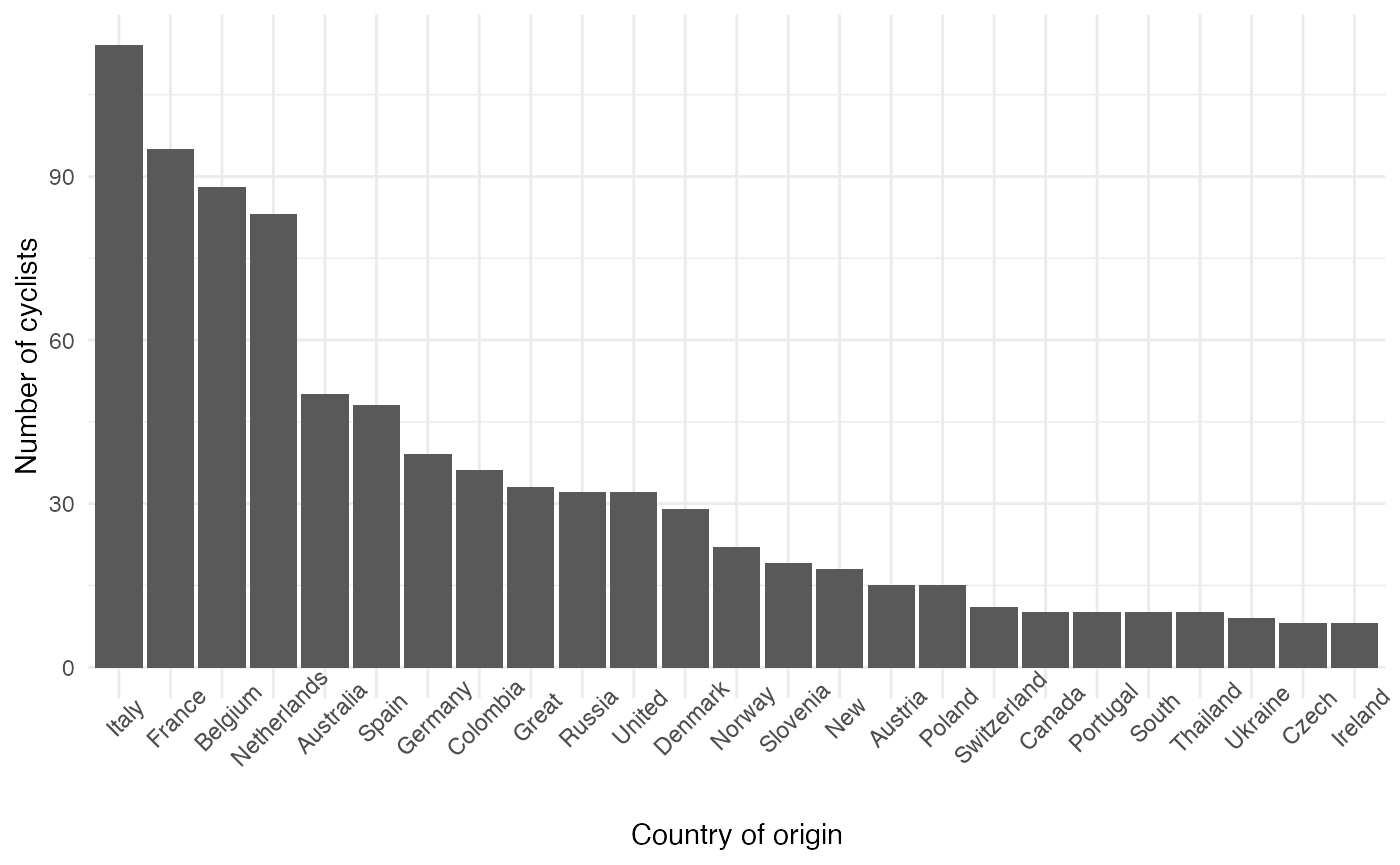
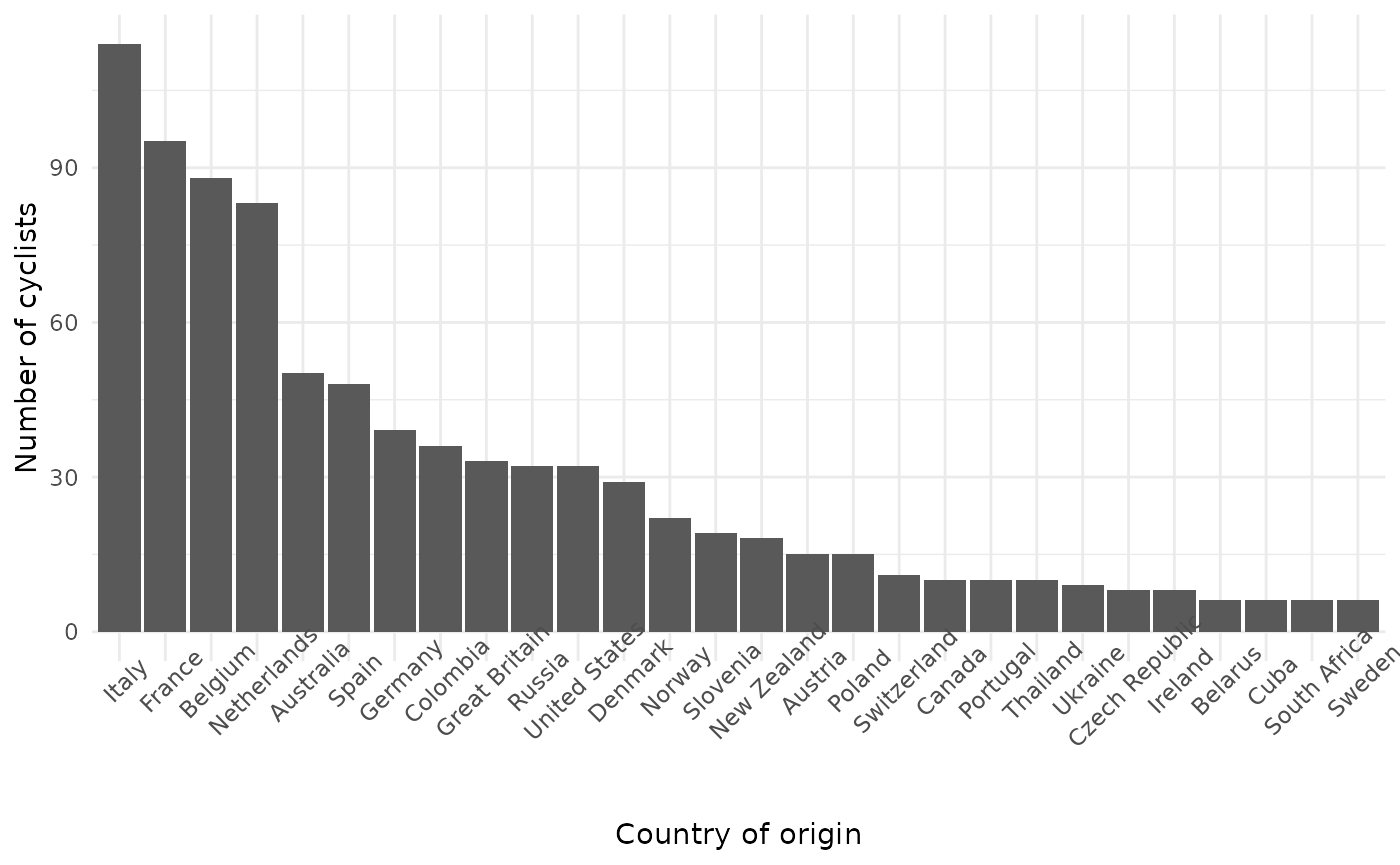
Follow-up on #23 (nationality labels)

diff --git a/docs/articles/pcs-usage.html b/docs/articles/pcs-usage.html
@@ -75,7 +75,7 @@
       <h1 data-toc-skip>PCS Usage</h1>
                         <h4 class="author">Sean Hardison</h4>
             
-            <h4 class="date">Latest version: 2020-10-20</h4>
+            <h4 class="date">Latest version: 2020-10-22</h4>
       
       
       <div class="hidden name"><code>pcs-usage.Rmd</code></div>
@@ -96,72 +96,70 @@
 <h3 class="hasAnchor">
 <a href="#what-countries-are-well-represented-in-the-peloton" class="anchor"></a>What countries are well represented in the peloton?</h3>
 <div class="sourceCode" id="cb1"><pre class="downlit">
-<span class="fu"><a href="https://rdrr.io/r/base/library.html">library</a></span>(<span class="kw">pcs</span>)
-<span class="fu"><a href="https://rdrr.io/r/base/library.html">library</a></span>(<span class="kw"><a href="http://ggplot2.tidyverse.org">ggplot2</a></span>)
-<span class="fu"><a href="https://rdrr.io/r/base/library.html">library</a></span>(<span class="kw"><a href="https://dplyr.tidyverse.org">dplyr</a></span>)
+<span class="kw"><a href="https://rdrr.io/r/base/library.html">library</a></span><span class="op">(</span><span class="va">pcs</span><span class="op">)</span>
+<span class="kw"><a href="https://rdrr.io/r/base/library.html">library</a></span><span class="op">(</span><span class="va"><a href="http://ggplot2.tidyverse.org">ggplot2</a></span><span class="op">)</span>
+<span class="kw"><a href="https://rdrr.io/r/base/library.html">library</a></span><span class="op">(</span><span class="va"><a href="https://dplyr.tidyverse.org">dplyr</a></span><span class="op">)</span>
 
 <span class="co"># Combine men and women rider profile data and count the number of riders</span>
 <span class="co"># by country</span>
-<span class="kw">all_riders</span> <span class="op">&lt;-</span> <span class="kw">rider_profiles_men</span> <span class="op">%&gt;%</span> 
-  <span class="fu"><a href="https://dplyr.tidyverse.org/reference/bind.html">bind_rows</a></span>(<span class="kw">.</span>, <span class="kw">rider_profiles_women</span>) <span class="op">%&gt;%</span> 
-  <span class="fu"><a href="https://dplyr.tidyverse.org/reference/group_by.html">group_by</a></span>(<span class="kw">nationality</span>) <span class="op">%&gt;%</span> 
-  <span class="kw">dplyr</span>::<span class="fu"><a href="https://dplyr.tidyverse.org/reference/summarise.html">summarise</a></span>(n_riders = <span class="fu"><a href="https://dplyr.tidyverse.org/reference/context.html">n</a></span>()) <span class="op">%&gt;%</span> 
-  <span class="fu"><a href="https://dplyr.tidyverse.org/reference/top_n.html">top_n</a></span>(<span class="kw">n_riders</span>, n= <span class="fl">25</span>)
+<span class="va">all_riders</span> <span class="op">&lt;-</span> <span class="va">rider_profiles_men</span> <span class="op">%&gt;%</span> 
+  <span class="fu"><a href="https://dplyr.tidyverse.org/reference/bind.html">bind_rows</a></span><span class="op">(</span><span class="va">.</span>, <span class="va">rider_profiles_women</span><span class="op">)</span> <span class="op">%&gt;%</span> 
+  <span class="fu"><a href="https://dplyr.tidyverse.org/reference/group_by.html">group_by</a></span><span class="op">(</span><span class="va">nationality</span><span class="op">)</span> <span class="op">%&gt;%</span> 
+  <span class="fu">dplyr</span><span class="fu">::</span><span class="fu"><a href="https://dplyr.tidyverse.org/reference/summarise.html">summarise</a></span><span class="op">(</span>n_riders <span class="op">=</span> <span class="fu"><a href="https://dplyr.tidyverse.org/reference/context.html">n</a></span><span class="op">(</span><span class="op">)</span><span class="op">)</span> <span class="op">%&gt;%</span> 
+  <span class="fu"><a href="https://dplyr.tidyverse.org/reference/top_n.html">top_n</a></span><span class="op">(</span><span class="va">n_riders</span>, n<span class="op">=</span> <span class="fl">25</span><span class="op">)</span>
 
 <span class="co"># Visualize</span>
-<span class="kw">all_riders</span> <span class="op">%&gt;%</span> 
-  <span class="fu"><a href="https://dplyr.tidyverse.org/reference/arrange.html">arrange</a></span>(<span class="fu"><a href="https://dplyr.tidyverse.org/reference/desc.html">desc</a></span>(<span class="kw">n_riders</span>)) <span class="op">%&gt;%</span> 
-<span class="fu"><a href="https://ggplot2.tidyverse.org/reference/ggplot.html">ggplot</a></span>() <span class="op">+</span>
-  <span class="fu"><a href="https://ggplot2.tidyverse.org/reference/geom_bar.html">geom_bar</a></span>(<span class="fu"><a href="https://ggplot2.tidyverse.org/reference/aes.html">aes</a></span>(x = <span class="fu"><a href="https://rdrr.io/r/stats/reorder.factor.html">reorder</a></span>(<span class="kw">nationality</span>, <span class="op">-</span><span class="kw">n_riders</span>, <span class="kw">sum</span>),
-               y = <span class="kw">n_riders</span>), stat = <span class="st">"identity"</span>) <span class="op">+</span>
-  <span class="fu"><a href="https://ggplot2.tidyverse.org/reference/ggtheme.html">theme_minimal</a></span>() <span class="op">+</span>
-  <span class="fu"><a href="https://ggplot2.tidyverse.org/reference/theme.html">theme</a></span>(axis.text.x = <span class="fu"><a href="https://ggplot2.tidyverse.org/reference/element.html">element_text</a></span>(angle = <span class="fl">45</span>)) <span class="op">+</span>
-  <span class="fu"><a href="https://ggplot2.tidyverse.org/reference/labs.html">labs</a></span>(y = <span class="st">"Number of cyclists"</span>,
-       x = <span class="st">"Country of origin"</span>) 
-</pre></div>
+<span class="va">all_riders</span> <span class="op">%&gt;%</span> 
+  <span class="fu"><a href="https://dplyr.tidyverse.org/reference/arrange.html">arrange</a></span><span class="op">(</span><span class="fu"><a href="https://dplyr.tidyverse.org/reference/desc.html">desc</a></span><span class="op">(</span><span class="va">n_riders</span><span class="op">)</span><span class="op">)</span> <span class="op">%&gt;%</span> 
+<span class="fu"><a href="https://ggplot2.tidyverse.org/reference/ggplot.html">ggplot</a></span><span class="op">(</span><span class="op">)</span> <span class="op">+</span>
+  <span class="fu"><a href="https://ggplot2.tidyverse.org/reference/geom_bar.html">geom_bar</a></span><span class="op">(</span><span class="fu"><a href="https://ggplot2.tidyverse.org/reference/aes.html">aes</a></span><span class="op">(</span>x <span class="op">=</span> <span class="fu"><a href="https://rdrr.io/r/stats/reorder.factor.html">reorder</a></span><span class="op">(</span><span class="va">nationality</span>, <span class="op">-</span><span class="va">n_riders</span>, <span class="va">sum</span><span class="op">)</span>,
+               y <span class="op">=</span> <span class="va">n_riders</span><span class="op">)</span>, stat <span class="op">=</span> <span class="st">"identity"</span><span class="op">)</span> <span class="op">+</span>
+  <span class="fu"><a href="https://ggplot2.tidyverse.org/reference/ggtheme.html">theme_minimal</a></span><span class="op">(</span><span class="op">)</span> <span class="op">+</span>
+  <span class="fu"><a href="https://ggplot2.tidyverse.org/reference/theme.html">theme</a></span><span class="op">(</span>axis.text.x <span class="op">=</span> <span class="fu"><a href="https://ggplot2.tidyverse.org/reference/element.html">element_text</a></span><span class="op">(</span>angle <span class="op">=</span> <span class="fl">45</span><span class="op">)</span><span class="op">)</span> <span class="op">+</span>
+  <span class="fu"><a href="https://ggplot2.tidyverse.org/reference/labs.html">labs</a></span><span class="op">(</span>y <span class="op">=</span> <span class="st">"Number of cyclists"</span>,
+       x <span class="op">=</span> <span class="st">"Country of origin"</span><span class="op">)</span> </pre></div>
 <p><img src="pcs-usage_files/figure-html/unnamed-chunk-1-1.png" width="700"></p>
 </div>
 <div id="which-countries-produce-the-most-successful-climbing-specialists" class="section level3">
 <h3 class="hasAnchor">
 <a href="#which-countries-produce-the-most-successful-climbing-specialists" class="anchor"></a>Which countries produce the most successful climbing specialists?</h3>
 <div class="sourceCode" id="cb2"><pre class="downlit">
-<span class="kw">climbers</span> <span class="op">&lt;-</span> 
-  <span class="kw">rider_profiles_men</span> <span class="op">%&gt;%</span> 
-  <span class="fu"><a href="https://dplyr.tidyverse.org/reference/mutate.html">mutate</a></span>(sex = <span class="st">"men"</span>) <span class="op">%&gt;%</span> 
-  <span class="fu"><a href="https://dplyr.tidyverse.org/reference/bind.html">bind_rows</a></span>(<span class="kw">.</span>, <span class="kw">rider_profiles_women</span> <span class="op">%&gt;%</span> 
-              <span class="fu"><a href="https://dplyr.tidyverse.org/reference/mutate.html">mutate</a></span>(sex = <span class="st">"women"</span>))
+<span class="va">climbers</span> <span class="op">&lt;-</span> 
+  <span class="va">rider_profiles_men</span> <span class="op">%&gt;%</span> 
+  <span class="fu"><a href="https://dplyr.tidyverse.org/reference/mutate.html">mutate</a></span><span class="op">(</span>sex <span class="op">=</span> <span class="st">"men"</span><span class="op">)</span> <span class="op">%&gt;%</span> 
+  <span class="fu"><a href="https://dplyr.tidyverse.org/reference/bind.html">bind_rows</a></span><span class="op">(</span><span class="va">.</span>, <span class="va">rider_profiles_women</span> <span class="op">%&gt;%</span> 
+              <span class="fu"><a href="https://dplyr.tidyverse.org/reference/mutate.html">mutate</a></span><span class="op">(</span>sex <span class="op">=</span> <span class="st">"women"</span><span class="op">)</span><span class="op">)</span>
 
 <span class="co"># Extract tenth percentile of climber points by sex</span>
-<span class="kw">top_points_perc</span> <span class="op">&lt;-</span> 
-  <span class="kw">climbers</span> <span class="op">%&gt;%</span> 
-  <span class="fu"><a href="https://dplyr.tidyverse.org/reference/group_by.html">group_by</a></span>(<span class="kw">sex</span>) <span class="op">%&gt;%</span> 
-  <span class="fu"><a href="https://dplyr.tidyverse.org/reference/summarise.html">summarise</a></span>(q = <span class="fu"><a href="https://rdrr.io/r/stats/quantile.html">quantile</a></span>(<span class="kw">climber</span>, 
-                         probs = <span class="fu"><a href="https://rdrr.io/r/base/seq.html">seq</a></span>(<span class="fl">0</span>,<span class="fl">1</span>,<span class="fl">0.1</span>)),
-            prob = <span class="fu"><a href="https://rdrr.io/r/base/names.html">names</a></span>(<span class="fu"><a href="https://rdrr.io/r/stats/quantile.html">quantile</a></span>(<span class="kw">climber</span>, 
-                                  probs = <span class="fu"><a href="https://rdrr.io/r/base/seq.html">seq</a></span>(<span class="fl">0</span>,<span class="fl">1</span>,<span class="fl">0.1</span>)))) <span class="op">%&gt;%</span> 
-  <span class="fu"><a href="https://dplyr.tidyverse.org/reference/filter.html">filter</a></span>(<span class="kw">prob</span> <span class="op">==</span> <span class="st">"90%"</span>) 
+<span class="va">top_points_perc</span> <span class="op">&lt;-</span> 
+  <span class="va">climbers</span> <span class="op">%&gt;%</span> 
+  <span class="fu"><a href="https://dplyr.tidyverse.org/reference/group_by.html">group_by</a></span><span class="op">(</span><span class="va">sex</span><span class="op">)</span> <span class="op">%&gt;%</span> 
+  <span class="fu"><a href="https://dplyr.tidyverse.org/reference/summarise.html">summarise</a></span><span class="op">(</span>q <span class="op">=</span> <span class="fu"><a href="https://rdrr.io/r/stats/quantile.html">quantile</a></span><span class="op">(</span><span class="va">climber</span>, 
+                         probs <span class="op">=</span> <span class="fu"><a href="https://rdrr.io/r/base/seq.html">seq</a></span><span class="op">(</span><span class="fl">0</span>,<span class="fl">1</span>,<span class="fl">0.1</span><span class="op">)</span><span class="op">)</span>,
+            prob <span class="op">=</span> <span class="fu"><a href="https://rdrr.io/r/base/names.html">names</a></span><span class="op">(</span><span class="fu"><a href="https://rdrr.io/r/stats/quantile.html">quantile</a></span><span class="op">(</span><span class="va">climber</span>, 
+                                  probs <span class="op">=</span> <span class="fu"><a href="https://rdrr.io/r/base/seq.html">seq</a></span><span class="op">(</span><span class="fl">0</span>,<span class="fl">1</span>,<span class="fl">0.1</span><span class="op">)</span><span class="op">)</span><span class="op">)</span><span class="op">)</span> <span class="op">%&gt;%</span> 
+  <span class="fu"><a href="https://dplyr.tidyverse.org/reference/filter.html">filter</a></span><span class="op">(</span><span class="va">prob</span> <span class="op">==</span> <span class="st">"90%"</span><span class="op">)</span> 
 
 <span class="co"># Identify the countries that the most "prolific" climbers originate from. </span>
 <span class="co"># Note that this does not correct for age of the rider. </span>
-<span class="kw">best_climbers</span> <span class="op">&lt;-</span> 
-  <span class="kw">climbers</span> <span class="op">%&gt;%</span> 
-  <span class="fu"><a href="https://dplyr.tidyverse.org/reference/mutate-joins.html">left_join</a></span>(<span class="kw">.</span>,<span class="kw">top_points_perc</span>, by = <span class="fu"><a href="https://rdrr.io/r/base/c.html">c</a></span>(<span class="st">"sex"</span>)) <span class="op">%&gt;%</span> 
-  <span class="fu"><a href="https://dplyr.tidyverse.org/reference/filter.html">filter</a></span>(<span class="kw">climber</span> <span class="op">&gt;=</span> <span class="kw">q</span>) <span class="op">%&gt;%</span> 
-  <span class="fu"><a href="https://dplyr.tidyverse.org/reference/group_by.html">group_by</a></span>(<span class="kw">sex</span>, <span class="kw">nationality</span>) <span class="op">%&gt;%</span> 
-  <span class="kw">dplyr</span>::<span class="fu"><a href="https://dplyr.tidyverse.org/reference/summarise.html">summarise</a></span>(n_riders = <span class="fu"><a href="https://dplyr.tidyverse.org/reference/context.html">n</a></span>()) <span class="op">%&gt;%</span> 
-  <span class="fu"><a href="https://dplyr.tidyverse.org/reference/top_n.html">top_n</a></span>(<span class="kw">n_riders</span>, n = <span class="fl">10</span>)
+<span class="va">best_climbers</span> <span class="op">&lt;-</span> 
+  <span class="va">climbers</span> <span class="op">%&gt;%</span> 
+  <span class="fu"><a href="https://dplyr.tidyverse.org/reference/mutate-joins.html">left_join</a></span><span class="op">(</span><span class="va">.</span>,<span class="va">top_points_perc</span>, by <span class="op">=</span> <span class="fu"><a href="https://rdrr.io/r/base/c.html">c</a></span><span class="op">(</span><span class="st">"sex"</span><span class="op">)</span><span class="op">)</span> <span class="op">%&gt;%</span> 
+  <span class="fu"><a href="https://dplyr.tidyverse.org/reference/filter.html">filter</a></span><span class="op">(</span><span class="va">climber</span> <span class="op">&gt;=</span> <span class="va">q</span><span class="op">)</span> <span class="op">%&gt;%</span> 
+  <span class="fu"><a href="https://dplyr.tidyverse.org/reference/group_by.html">group_by</a></span><span class="op">(</span><span class="va">sex</span>, <span class="va">nationality</span><span class="op">)</span> <span class="op">%&gt;%</span> 
+  <span class="fu">dplyr</span><span class="fu">::</span><span class="fu"><a href="https://dplyr.tidyverse.org/reference/summarise.html">summarise</a></span><span class="op">(</span>n_riders <span class="op">=</span> <span class="fu"><a href="https://dplyr.tidyverse.org/reference/context.html">n</a></span><span class="op">(</span><span class="op">)</span><span class="op">)</span> <span class="op">%&gt;%</span> 
+  <span class="fu"><a href="https://dplyr.tidyverse.org/reference/top_n.html">top_n</a></span><span class="op">(</span><span class="va">n_riders</span>, n <span class="op">=</span> <span class="fl">10</span><span class="op">)</span>
 
 <span class="co"># Visualize</span>
-<span class="kw">best_climbers</span> <span class="op">%&gt;%</span> 
-  <span class="fu"><a href="https://dplyr.tidyverse.org/reference/arrange.html">arrange</a></span>(<span class="fu"><a href="https://dplyr.tidyverse.org/reference/desc.html">desc</a></span>(<span class="kw">n_riders</span>)) <span class="op">%&gt;%</span> 
-<span class="fu"><a href="https://ggplot2.tidyverse.org/reference/ggplot.html">ggplot</a></span>() <span class="op">+</span>
-  <span class="fu"><a href="https://ggplot2.tidyverse.org/reference/geom_bar.html">geom_bar</a></span>(<span class="fu"><a href="https://ggplot2.tidyverse.org/reference/aes.html">aes</a></span>(x = <span class="fu"><a href="https://rdrr.io/r/stats/reorder.factor.html">reorder</a></span>(<span class="kw">nationality</span>, <span class="op">-</span><span class="kw">n_riders</span>, <span class="kw">sum</span>),
-               y = <span class="kw">n_riders</span>), stat = <span class="st">"identity"</span>) <span class="op">+</span>
-  <span class="fu"><a href="https://ggplot2.tidyverse.org/reference/ggtheme.html">theme_minimal</a></span>() <span class="op">+</span>
-  <span class="fu"><a href="https://ggplot2.tidyverse.org/reference/theme.html">theme</a></span>(axis.text.x = <span class="fu"><a href="https://ggplot2.tidyverse.org/reference/element.html">element_text</a></span>(angle = <span class="fl">45</span>)) <span class="op">+</span>
-  <span class="fu"><a href="https://ggplot2.tidyverse.org/reference/labs.html">labs</a></span>(y = <span class="st">"Number of cyclists"</span>,
-       x = <span class="st">"Country of origin"</span>) 
-</pre></div>
+<span class="va">best_climbers</span> <span class="op">%&gt;%</span> 
+  <span class="fu"><a href="https://dplyr.tidyverse.org/reference/arrange.html">arrange</a></span><span class="op">(</span><span class="fu"><a href="https://dplyr.tidyverse.org/reference/desc.html">desc</a></span><span class="op">(</span><span class="va">n_riders</span><span class="op">)</span><span class="op">)</span> <span class="op">%&gt;%</span> 
+<span class="fu"><a href="https://ggplot2.tidyverse.org/reference/ggplot.html">ggplot</a></span><span class="op">(</span><span class="op">)</span> <span class="op">+</span>
+  <span class="fu"><a href="https://ggplot2.tidyverse.org/reference/geom_bar.html">geom_bar</a></span><span class="op">(</span><span class="fu"><a href="https://ggplot2.tidyverse.org/reference/aes.html">aes</a></span><span class="op">(</span>x <span class="op">=</span> <span class="fu"><a href="https://rdrr.io/r/stats/reorder.factor.html">reorder</a></span><span class="op">(</span><span class="va">nationality</span>, <span class="op">-</span><span class="va">n_riders</span>, <span class="va">sum</span><span class="op">)</span>,
+               y <span class="op">=</span> <span class="va">n_riders</span><span class="op">)</span>, stat <span class="op">=</span> <span class="st">"identity"</span><span class="op">)</span> <span class="op">+</span>
+  <span class="fu"><a href="https://ggplot2.tidyverse.org/reference/ggtheme.html">theme_minimal</a></span><span class="op">(</span><span class="op">)</span> <span class="op">+</span>
+  <span class="fu"><a href="https://ggplot2.tidyverse.org/reference/theme.html">theme</a></span><span class="op">(</span>axis.text.x <span class="op">=</span> <span class="fu"><a href="https://ggplot2.tidyverse.org/reference/element.html">element_text</a></span><span class="op">(</span>angle <span class="op">=</span> <span class="fl">45</span><span class="op">)</span><span class="op">)</span> <span class="op">+</span>
+  <span class="fu"><a href="https://ggplot2.tidyverse.org/reference/labs.html">labs</a></span><span class="op">(</span>y <span class="op">=</span> <span class="st">"Number of cyclists"</span>,
+       x <span class="op">=</span> <span class="st">"Country of origin"</span><span class="op">)</span> </pre></div>
 <p><img src="pcs-usage_files/figure-html/unnamed-chunk-2-1.png" width="700"></p>
 </div>
 </div>

diff --git a/docs/reference/rider_profiles_women.html b/docs/reference/rider_profiles_women.html
@@ -124,7 +124,7 @@
     <p>A dataset containing rider profiles of elite women category.</p>
     </div>
 
-    <pre class="usage"><span class='kw'>rider_profiles_women</span></pre>
+    <pre class="usage"><span class='va'>rider_profiles_women</span></pre>
 
 
     <h2 class="hasAnchor" id="format"><a class="anchor" href="#format"></a>Format</h2>

diff --git a/docs/reference/rider_records_women.html b/docs/reference/rider_records_women.html
@@ -124,7 +124,7 @@
     <p>A dataset containing the results of elite women category.</p>
     </div>
 
-    <pre class="usage"><span class='kw'>rider_records_women</span></pre>
+    <pre class="usage"><span class='va'>rider_records_women</span></pre>
 
 
     <h2 class="hasAnchor" id="format"><a class="anchor" href="#format"></a>Format</h2>

diff --git a/docs/reference/rider_profiles_men.html b/docs/reference/rider_profiles_men.html
@@ -124,7 +124,7 @@
     <p>A dataset containing rider profiles of elite men category.</p>
     </div>
 
-    <pre class="usage"><span class='kw'>rider_profiles_men</span></pre>
+    <pre class="usage"><span class='va'>rider_profiles_men</span></pre>
 
 
     <h2 class="hasAnchor" id="format"><a class="anchor" href="#format"></a>Format</h2>

diff --git a/docs/reference/rider_records_men.html b/docs/reference/rider_records_men.html
@@ -124,7 +124,7 @@
     <p>A dataset containing the results of elite men category.</p>
     </div>
 
-    <pre class="usage"><span class='kw'>rider_records_men</span></pre>
+    <pre class="usage"><span class='va'>rider_records_men</span></pre>
 
 
     <h2 class="hasAnchor" id="format"><a class="anchor" href="#format"></a>Format</h2>
